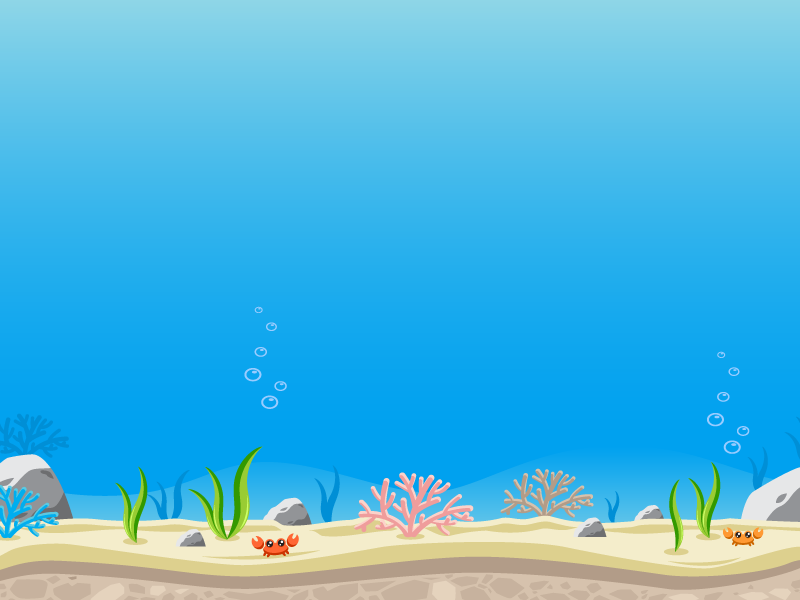
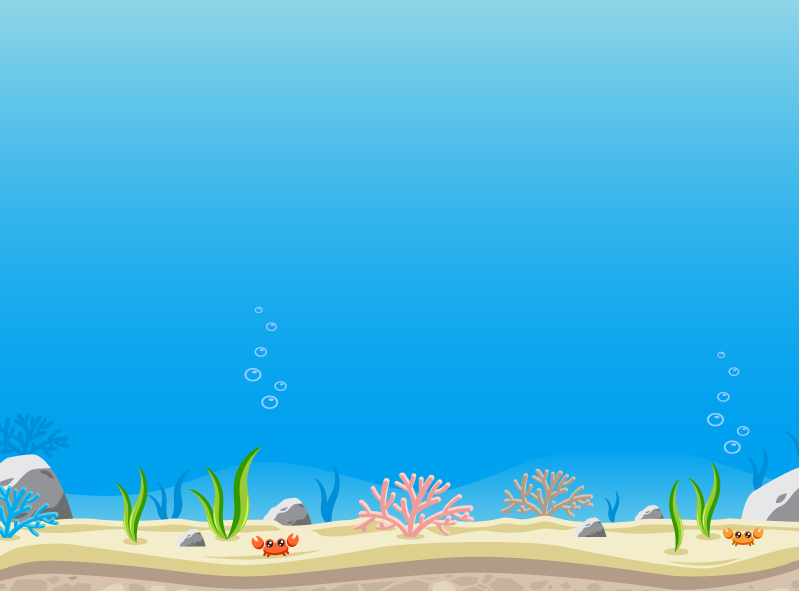
background resize to fit

diff --git a/main/templates/base.html b/main/templates/base.html
@@ -17,7 +17,7 @@
         <title>Ocean Cleaner</title>
     {% endif %}
   </head>
-  <body style="background-image: url({% static 'images/bg.png' %});">
+  <body class='bg'>
     <nav class="navbar navbar-expand-lg navbar-dark bg-dark">
         <div class="container-fluid">
           <a class="navbar-brand" href="{% url 'home' %}">Home</a>

diff --git a/static/css/background.css b/static/css/background.css
@@ -1,5 +1,9 @@
 {% load static %}
 
 .bg {
-	background-image: url({% static 'images/bg.png' %});
+	background-image: url(../images/bg.png);
+	background-position: bottom;
+	background-repeat: no-repeat;
+	background-size: cover;
+	height: 100vh;
 }
